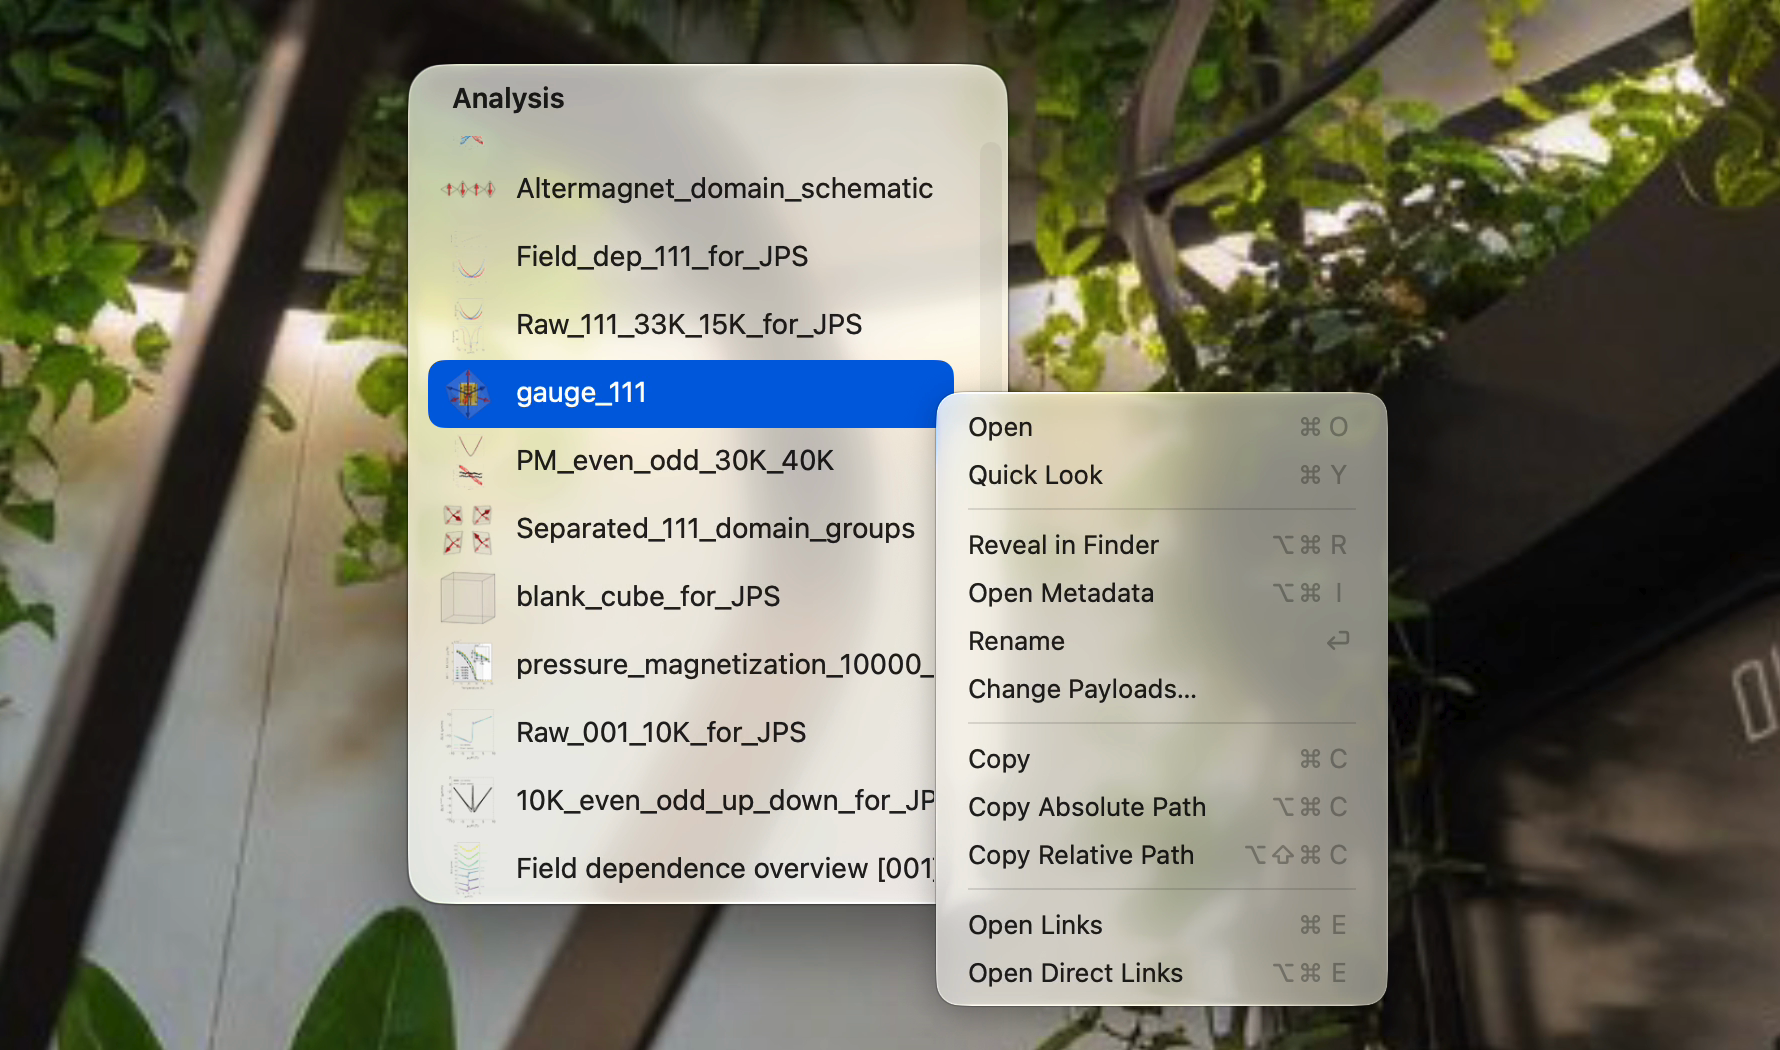
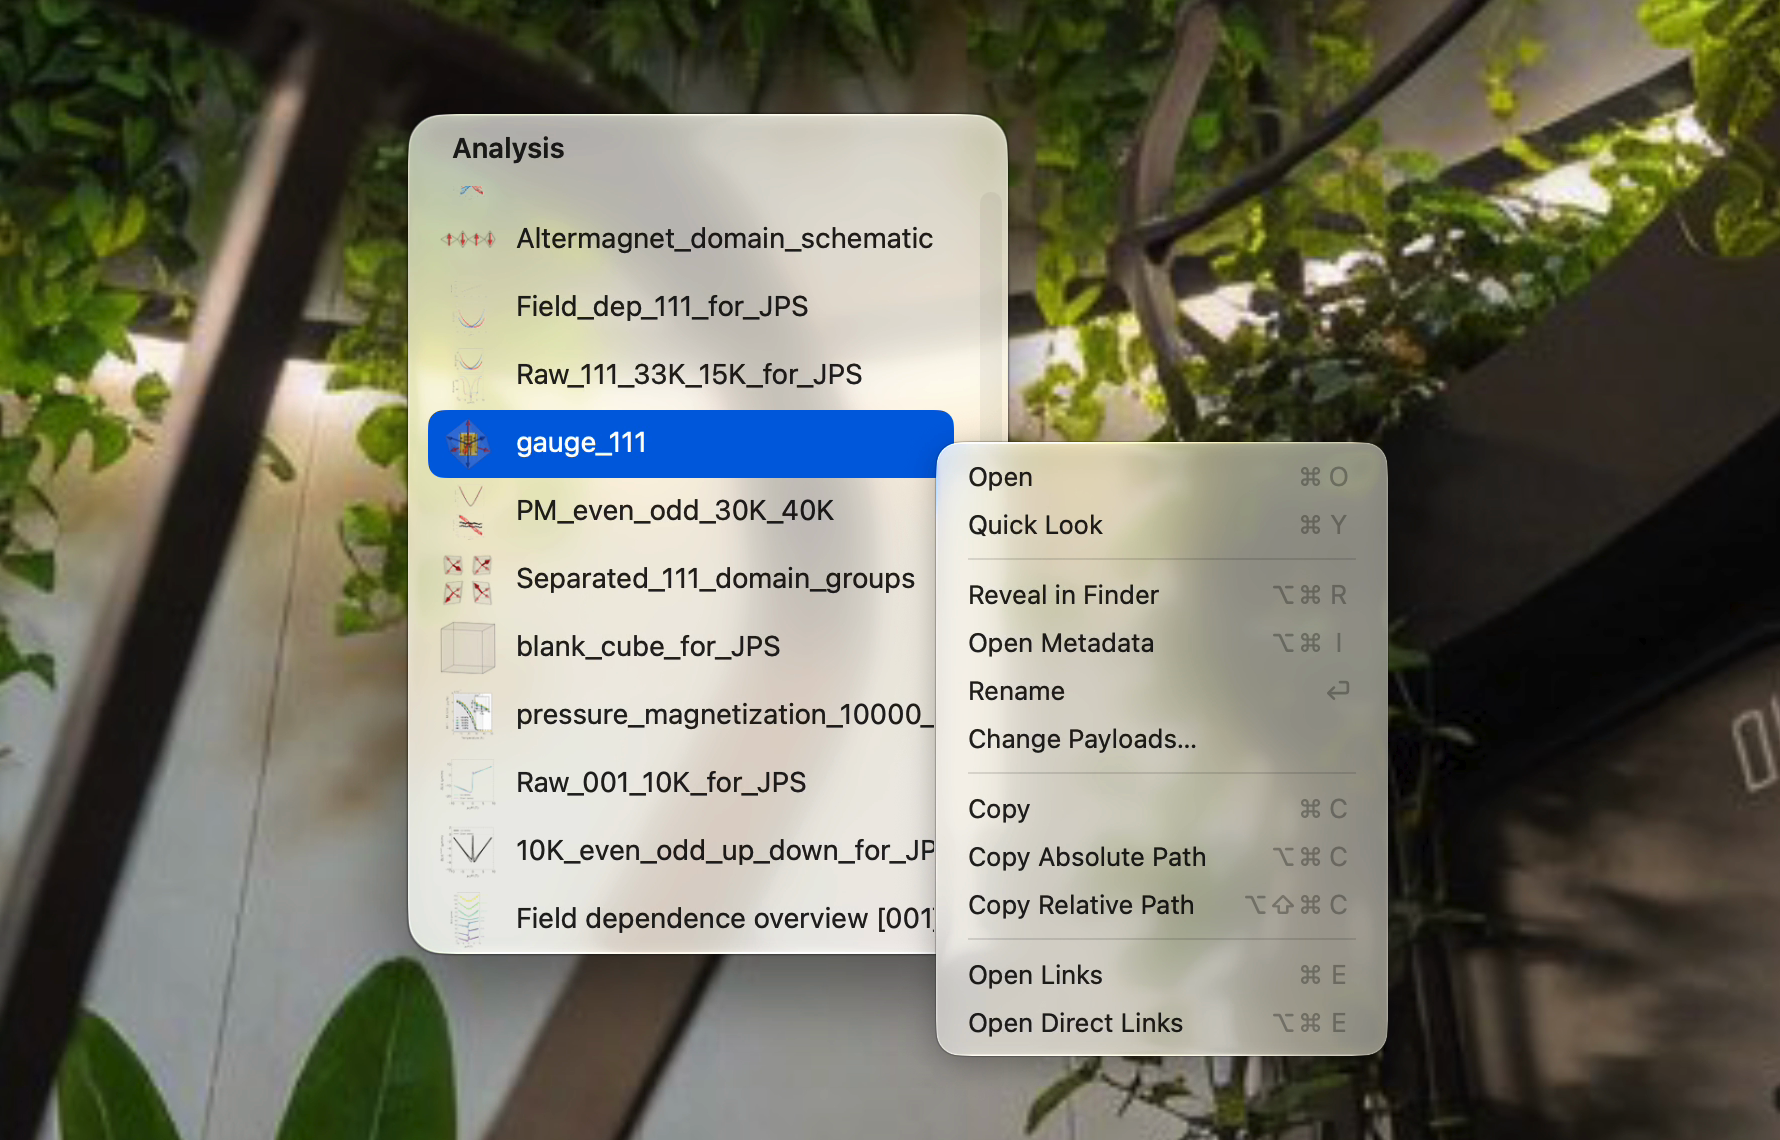
Align English README with Japanese and restore image margins

diff --git a/README.md b/README.md
@@ -2,7 +2,7 @@
 
 # Finder Finder
 
-Finder to find Finder.
+Native application for simple database
 
 [日本語](README_ja.md)
 
@@ -14,67 +14,67 @@ Finder to find Finder.
 
 ---
 
-## DB layout
+## Database
 
-One record is a directory directly under the DB root, containing `metadata.json`. Its ID is a six-digit number such as `000001`, used as the directory name. Add Record assigns the next number after the highest existing ID.
-Set the DB root as `dbRoot` in `~/.finder-finder/settings.json`.
+Put arbitrary folders directly under one Database root.
+The folder name is the sole source of truth for its ID, so sequential numbers are recommended. The app automatically assigns an unused six-digit sequential number when adding a record.
 
+Ex)
 ```text
 Database/
-└── 000001/
+└── 000256/
     ├── metadata.json
     ├── measurement.csv
     └── preview.png
 ```
-
-## Metadata
+The app recognizes folders containing `metadata.json`. It reads the following fields.
 
 <details>
 <summary>Fields</summary>
 
 | Field | Required | Content |
 | --- | --- | --- |
-| `category` | ✓ | Display category |
-| `display_name` | | Display name; defaults to the ID |
-| `payload` | For file actions | Record-relative filename or array of filenames |
-| `preview` | | Quick Look-compatible display file; falls back to payload |
-| `links` | | Array of `{"id": "000002"}` objects |
+| `category` | ✓ | Lists records by category |
+| `display_name` | | Display name only; defaults to the folder name |
+| `payload` | For actions | Main file to open in the folder. Uses folder-relative paths; multiple files allowed |
+| `preview` | | Display file for Quick Look |
+| `links` | | Array of `{"id": "000256"}` objects. Connects related data |
 
 </details>
 
-## Operations
+## Shortcuts
 
 <details>
-<summary>Actions and shortcuts</summary>
+<summary>Shortcuts</summary>
 
-### Data actions
-
-| Action | Key | Effect |
-| --- | --- | --- |
-| Open | `⌘O` / double-click / `⌥`-click | opens the payload in the default app |
-| Quick Look | `Space` / `⌘Y` / click a selected row | `preview`, otherwise each payload |
-| Reveal in Finder | `⌥⌘R` | shows it in Finder |
-| Open Metadata | `⌥⌘I` | opens `metadata.json` |
-| Rename | `Return` | edits `display_name` (single selection only) |
-| Change Payloads… | row context menu | chooses one or more record-local files and writes them to `payload` |
-| Copy | `⌘C` | copies the payload files themselves to the clipboard |
-| Copy Absolute Path | `⌥⌘C` | copies the full path, wrapped in backticks |
-| Copy Relative Path | `⌥⇧⌘C` | copies the DB-root-relative path, wrapped in backticks |
-| Open Links | `⌘E` | opens related records along the provenance graph in a new window |
-| Open Direct Links | `⌥⌘E` | opens only the directly linked records |
-| Remove Link | `⌘`⌫ | removes the direct link to the selected row (links window only; the records are not deleted) |
-| Pass payloads | drag a row | Sends payload files to another app |
-| Add record | drop files onto a window | Choose a category and display name |
-
-### View and window
+### Data
 
 | Action | Key | Effect |
 | --- | --- | --- |
-| Switch category | `⌥`+initial | the assigned letter is shown in the Category menu |
-| Sort | menu only | Number (default) / Name / Last Modified / Most Links; not persisted |
-| Move to Top / Left / Right / Center | `⌥⌘↑` / `⌥⌘←` / `⌥⌘→` / `⌥⌘↓` | Top/Left/Right move along one axis; Center centers on screen. Size is unchanged |
-| Always on top | `⌥⌘T` | pins above other windows (on by default) |
-| Close Window | `⌘W` | closing the last window quits the app |
+| Open | `⌘O` / `⌥`+click | Opens payload in the default app |
+| Quick Look | `Space` / `⌘Y` / click | Opens the preview file in Quick Look; falls back to payload |
+| Reveal in Finder | `⌥⌘R` | Shows it in Finder |
+| Open Metadata | `⌥⌘I` | Opens `metadata.json` |
+| Rename | `Return` | Changes `display_name` |
+| Change Payloads… | right-click menu | Updates `payload` |
+| Copy | `⌘C` | Copies payload files |
+| Copy Absolute Path | `⌥⌘C` | Copies the absolute path |
+| Copy Relative Path | `⌥⇧⌘C` | Copies the path relative to the DB root |
+| Open Links | `⌘E` | Lists linked data in both directions, one level each |
+| Open Direct Links | `⌥⌘E` | Lists directly linked data |
+| Remove Link | `⌘⌫` | Removes a direct link (links window only) |
+| Pass payloads | drag a row | Passes payload files to another app (copy) |
+| Add record | drop files onto a window | Creates a record with a category and display name |
+
+### Window
+
+| Action | Key | Effect |
+| --- | --- | --- |
+| Switch category | `⌥`+initial | |
+| Sort | | Number (default) / Display name / Last Modified / Most Links |
+| Move to screen edge | `⌥⌘↑` `←` `→` `↓` | `↓` centers |
+| Always on top | `⌥⌘T` | Keeps the window on top (default ON) |
+| Close Window | `⌘W` | Closes only the focused window |
 | Clear selection | click the header | |
 
 During Quick Look, arrow keys step through items. Open, Reveal, Copy, and path copying act on the displayed item’s payload.
@@ -88,10 +88,8 @@ Requires Rust and Xcode Command Line Tools. Set the DB root for the first build.
 ```sh
 FINDER_FINDER_DB_ROOT=/path/to/Database ./build
 ```
-
-The app and read-only CLI are built, and the app is saved to `/Applications/Finder Finder.app` and launched. Use `./build` after setup, or `./build --no-open` to skip launching.
-
-The DB root is saved as `dbRoot` in `~/.finder-finder/settings.json`. Edit it to change databases.
+The app is saved to `/Applications/Finder Finder.app` and launched.
+The Database root is saved as `dbRoot` in `~/.finder-finder/settings.json`. Edit it to change databases.
 
 ## CLI
 

diff --git a/README_ja.md b/README_ja.md
@@ -2,9 +2,9 @@
 
 # Finder Finder
 
-Finder to find Finder. 
+Native application for simple database
 
-[English](README.md)
+[English](README.md)								
 
 </div>
 
@@ -19,6 +19,7 @@ Finder to find Finder.
 1つのDatabase root直下に、任意フォルダを雑多に並べる。
 フォルダ名がIDの唯一の正本なので、連番が推奨。アプリ操作の規定では未使用の6桁連番が自動で割り当てられる。
 
+Ex)
 ```text
 Database/
 └── 000256/
@@ -36,7 +37,7 @@ Database/
 | `category` | ✓ | カテゴリごとの一覧が表示される 。|
 | `display_name` | | 単なる表示名。省略時はフォルダ名が使われる。 |
 | `payload` | 操作時 | そのフォルダで開くmain file。フォルダ内の相対pathを使う。複数指定可能。 |
-| `preview` | | Quick Look用の表示用file。原本がcsvで、見たいのはグラフ、といった用途で使う。 |
+| `preview` | | Quick Look用の表示用file。 |
 | `links` | | `{"id": "000256"}` の配列。関連データを繋げる。 |
 
 </details>
